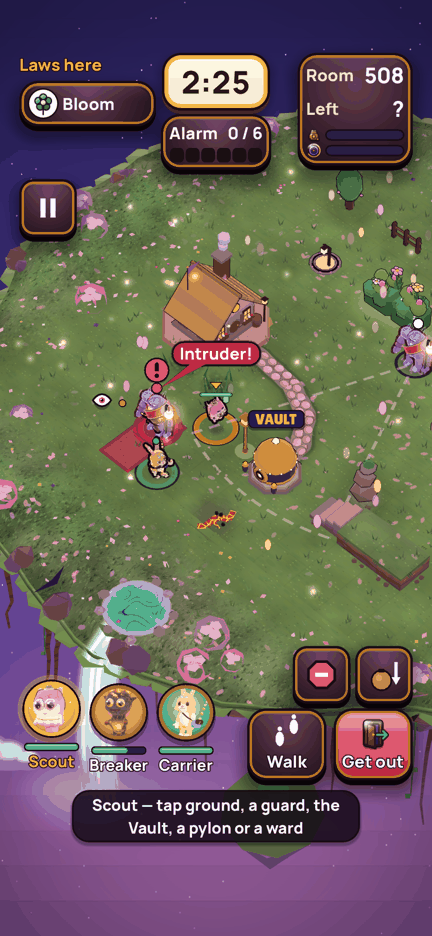
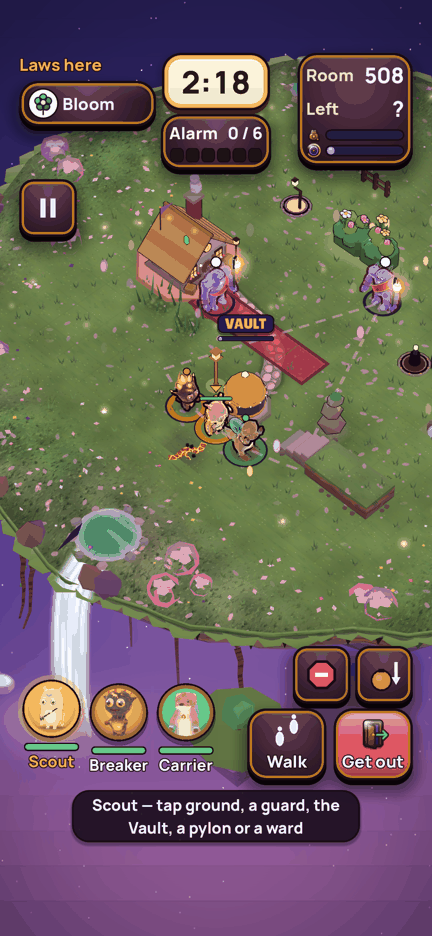
Crew of five schools inside the result's draw calls; Quarryback and Stillwatch toward their portraits; notes
Claude-Session: https://claude.ai/code/session_01SNkKxqPr7gwkU1tjnrGZzk

diff --git a/docs/progress/T1.md b/docs/progress/T1.md
@@ -1,15 +1,15 @@
 # T1 Characters — progress (wave 5)
 
-- Status: Green. Busts are in the heist's crew row; check_all passes.
-- Progress: 45% (18:45 UTC).
-- Done: busts (`CreatureBust.of`) for every ruleborn and Sage, hooked into `FxPortrait`; crew rim via `set_night`; Emberling belly, Golem bracers, Bloomling pink.
-- Next: crew readability at the heist camera in grayscale; every kind against its portrait; Emberling's flame.
-- Blocked by: none. (The Sage disc and crowding are T5's; the call is in t1c-characters.md.)
+- Status: Green. Busts in the crew row, a five-colour crew, colour rounds; check_all passes.
+- Progress: 70% (23:40 UTC, final for wave 5).
+- Done: `CreatureBust.of` for every ruleborn and Sage (in `FxPortrait`); crew of five schools; ink 1.8; belly, bracers; nine kinds tuned to their portraits.
+- Next: the Sage disc (T5, call ready); Quarryback's and Mossbear's white flecks; Featherkin's knit.
+- Blocked by: none.
 - Owner decision needed: none.
 
 | Deliverable | Weight | Status | Evidence |
 |---|---:|---|---|
-| Heist-scale portraits (busts, one call for T5) | 25 | partial 80% | `CreatureBust.of(kind, form, ground)`; 3 tests; `w5_busts*.png`, `w5_heist_busts.png` |
-| Readability at the heist camera | 25 | partial 20% | crew rim keeps each kind's sheen; ink 1.8; `w5_heist_ink_before_after.png` |
-| Open items: belly, bracers, T5's calls | 25 | partial 70% | `glow_from`, `gear_tint`, `set_night(night, side)`; `w5_colour_golem_ember_bloom.png` |
-| Colour faithfulness | 25 | partial 20% | Bloomling petals pink (`red_tint`) |
+| Heist-scale portraits (busts, one call for T5) | 25 | partial 85% | `CreatureBust.of(kind, form, ground)`; 3 tests; `w5_busts*.png`, `w5_heist_busts.png`; Sage disc waits on T5 |
+| Readability at the heist camera | 25 | partial 60% | five-school crew (test); ink 1.8; rim via `set_night`; `w5_heist_crew_before_after.png`, `w5_heist_ink_before_after.png` |
+| Open items: belly, bracers, T5's calls | 25 | done | `glow_from`, `gear_tint`, `set_night(night, side)`; `w5_colour_golem_ember_bloom.png` |
+| Colour faithfulness | 25 | partial 55% | per-kind colour measured against portraits (sum 1.03 → 0.81); Bloomling, Soul Mender, Lantern Wisp, Golem, Quarryback, Stillwatch; `w5_portraits_vs_design.png` |

diff --git a/docs/art/tracks/t1c-characters.md b/docs/art/tracks/t1c-characters.md
@@ -418,11 +418,14 @@ mesh (a Rambler without its clips imports at 125 KB of 171 KB).
 11. The heist's crew were three motion kinds (Featherkin, Rambler,
     Skyskipper): three cream-and-gold figures that merged on the grass and
     in their portraits. `Cast.KIND` (the integrator's, a few lines) now takes
-    02-heist.png's own crew where it shows one (Skyskipper, Mossbear,
-    Emberling) and Lantern Wisp and Bloomling for Scout and Mender: five
-    colours, each read apart at a glance and in grayscale. Draw calls: heist
-    128, long-crew5's result 149 (Hourkeeper's second surface would make it
-    150).
+    02-heist.png's own crew where it shows one (Emberling, Tidewalker,
+    Mossbear) and Featherkin and Soul Mender for Scout and Mender: five
+    schools, five colours, read apart at a glance and in grayscale (a test
+    holds the five schools). Draw calls: heist 128, long-crew5's result 149;
+    Featherkin and Mossbear are one surface each, and a crew of two-surface
+    kinds would make the result 150.
+12. Quarryback's tone 0.1 and Stillwatch a warmer tint, measured as in
+    round 9 (Stillwatch 0.96/0.99/1.05 against 0.95/1.00/1.05).
 
 ### Stills (`docs/art/shots/t1d/`)
 
